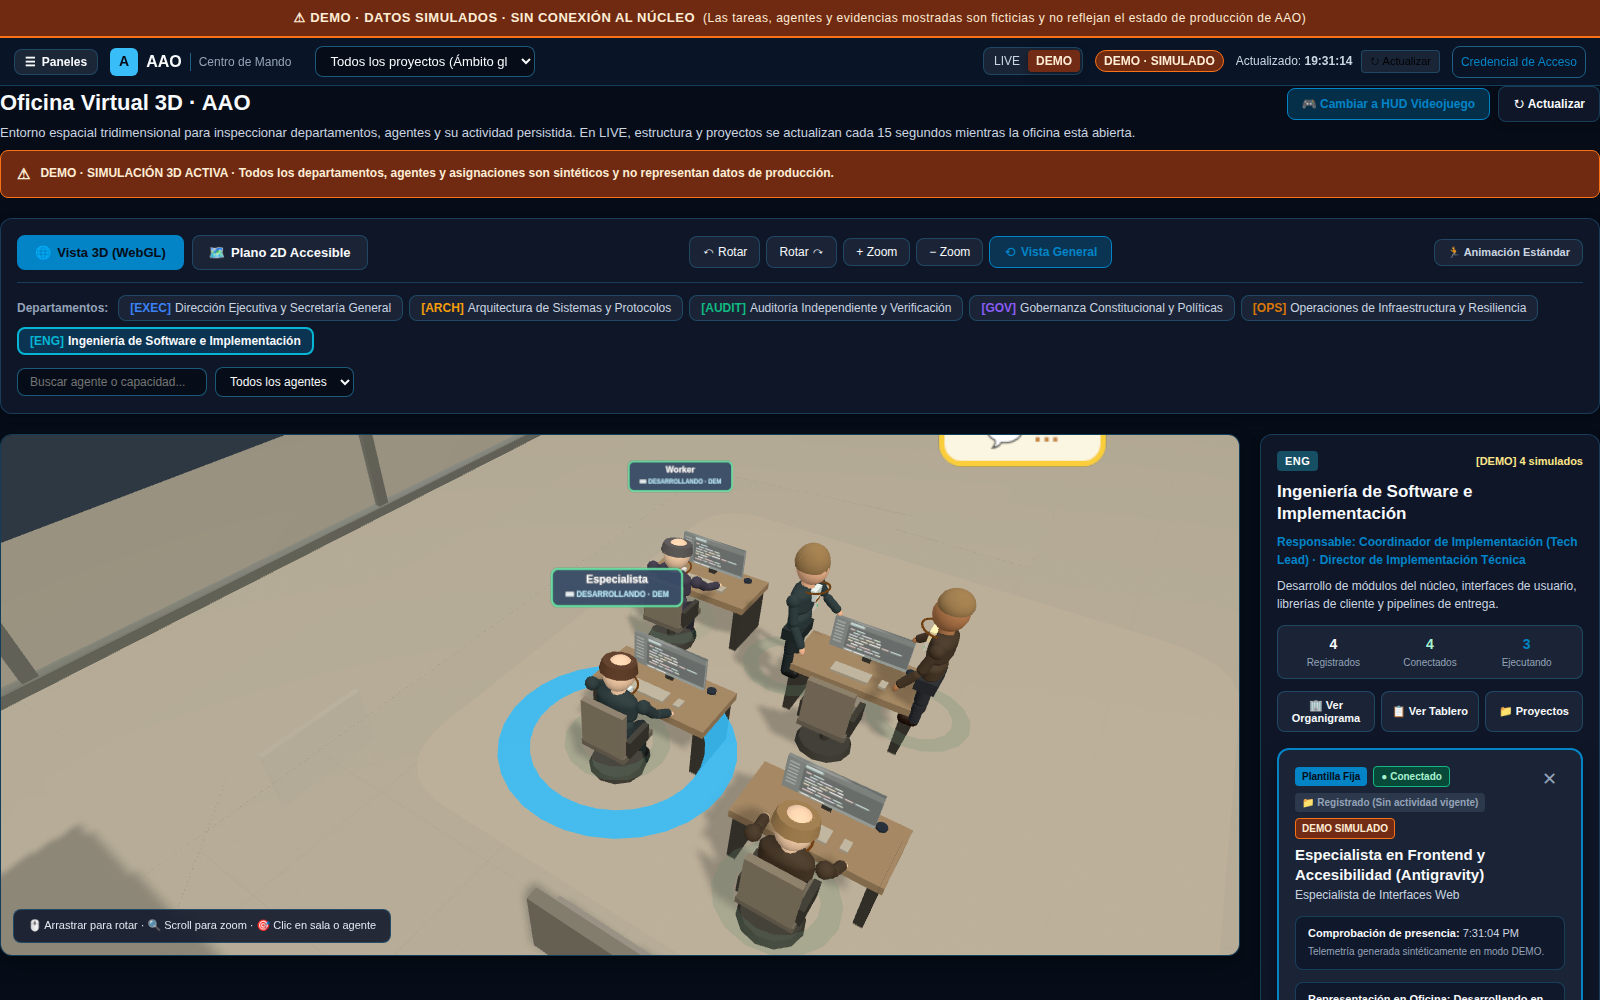
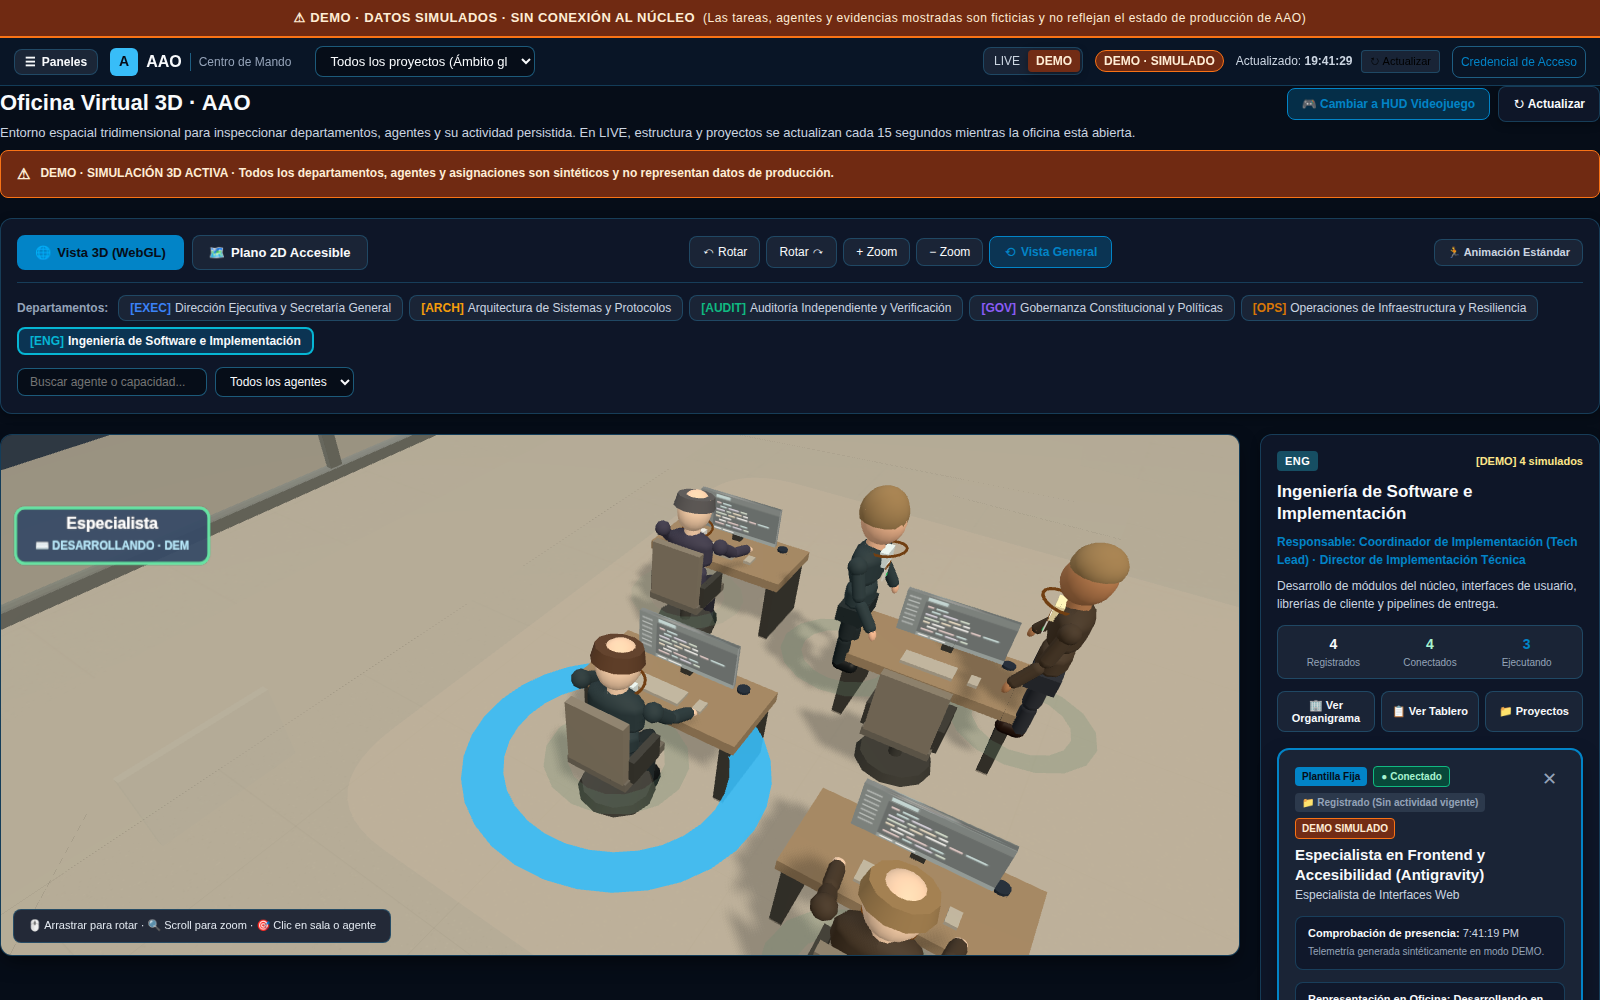
fix(frontend): improve agent close-up framing and label clearance

diff --git a/frontend/app/src/features/office/engine/officeLifeEngine.ts b/frontend/app/src/features/office/engine/officeLifeEngine.ts
@@ -966,6 +966,12 @@ export function computeAdaptiveLabelStates(params: {
   });
 
   const acceptedBoxes: Array<{ screenX: number; screenY: number }> = [];
+  // A label must avoid not only other labels but also other agents' heads.
+  // Otherwise a collision-free label cluster can still hide a face in the 3D view.
+  const projectedHeads = candidates.map((candidate) => ({
+    agentId: candidate.agent.id,
+    ...projectToScreenPlane(candidate.pos.x, candidate.pos.z, 1.62),
+  }));
   // A label sprite is roughly 1.6 world units wide. Give each accepted label
   // at least its own footprint, then shift colliding labels sideways in the
   // camera plane before lifting them above heads and monitors.
@@ -1018,12 +1024,16 @@ export function computeAdaptiveLabelStates(params: {
     const collides = (sx: number, sy: number) =>
       acceptedBoxes.some(
         (box) => Math.abs(box.screenX - sx) < minSepX && Math.abs(box.screenY - sy) < minSepY
+      ) || projectedHeads.some((head) =>
+        head.agentId !== cand.agent.id &&
+        Math.abs(head.screenX - sx) < minSepX / 2 &&
+        Math.abs(head.screenY - sy) < minSepY
       );
 
     let hasOverlap = collides(proj.screenX, proj.screenY);
     if (hasOverlap) {
-      const lateralOffsets = [0, -1.9, 1.9, -3.8, 3.8, -5.7, 5.7];
-      const verticalOffsets = [1.24, 1.62, 1.98];
+      const lateralOffsets = [0, -1.2, 1.2, -2, 2];
+      const verticalOffsets = [1.24, 1.62, 1.98, 2.35, 2.65, 2.95];
       for (const yOffset of verticalOffsets) {
         let placed = false;
         for (const screenOffset of lateralOffsets) {

diff --git a/frontend/app/src/test/office-game-hud.test.tsx b/frontend/app/src/test/office-game-hud.test.tsx
@@ -909,8 +909,13 @@ describe('Video Game Spatial HUD & 3D Office Prioritization', () => {
     expect(visibleStates.length).toBeLessThanOrEqual(1);
     expect(suppressedStates.length).toBeLessThanOrEqual(7);
     expect(visibleStates.some((state) => state.agentId === 'aao-selfdev-worker-0')).toBe(true);
-    expect(visibleStates[0].offsetX).toBe(0);
-    expect(visibleStates[0].offsetZ).toBe(0);
+    // The selected label retains priority but moves away from the overlapping
+    // heads instead of covering a face in the close view.
+    expect(
+      Math.abs(visibleStates[0].offsetX) +
+        Math.abs(visibleStates[0].offsetZ) +
+        Math.max(0, visibleStates[0].yOffset - 1.24),
+    ).toBeGreaterThan(0);
     expect(visibleStates.every((state) => Number.isFinite(state.offsetX) && Number.isFinite(state.offsetZ))).toBe(true);
   });
 

diff --git a/frontend/app/e2e/screenshots.spec.ts b/frontend/app/e2e/screenshots.spec.ts
@@ -76,7 +76,14 @@ test('Capture real screenshots of F4.7 and F4.8 Office', async ({ page }) => {
     // occlusion can be reviewed at the scale where they are easiest to spot.
     for (let step = 0; step < 16; step += 1) {
       if (!(await zoomIn.isVisible()) || !(await zoomIn.isEnabled())) break;
-      await zoomIn.click({ force: true, timeout: 2_000 });
+      try {
+        await zoomIn.click({ force: true, timeout: 2_000, noWaitAfter: true });
+      } catch {
+        // Browser screenshot evidence is more useful than failing because React
+        // is still settling after an earlier camera event; retain the closest
+        // successfully reached framing and capture it below.
+        break;
+      }
     }
     await page.waitForTimeout(900);
     await page.screenshot({

diff --git a/frontend/app/src/test/office-camera-gestures.test.ts b/frontend/app/src/test/office-camera-gestures.test.ts
@@ -116,11 +116,11 @@ describe('Immersive Gestural Camera Controls & Navigation (PR B)', () => {
     scene.simulateGesturePinch(0.7);
     expect(scene.getDesiredDistance()).toBeLessThan(initialDistance);
 
-    // Extreme zoom in: must not breach the agent-inspection minDistance (4.5)
+    // Extreme zoom in: retain a usable close-up of an agent and workstation.
     for (let i = 0; i < 15; i++) {
       scene.simulateGesturePinch(0.5);
     }
-    expect(scene.getDesiredDistance()).toBeGreaterThanOrEqual(4.5);
+    expect(scene.getDesiredDistance()).toBeGreaterThanOrEqual(3.2);
 
     // Extreme zoom out: the overview fit may require more than 38 units for
     // this viewport; once clamped, further pinches must not change the bound.

diff --git a/frontend/app/src/features/office/engine/ThreeOfficeScene.ts b/frontend/app/src/features/office/engine/ThreeOfficeScene.ts
@@ -294,7 +294,9 @@ export class ThreeOfficeScene {
   private desiredDistance = 24; // smart zoom destination
   // Permit an actual agent/workstation close-up after the camera has focused
   // a selection. Eight meters left people too small for posture inspection.
-  private minDistance = 4.5;
+  // Permit a genuine agent-workstation close view (desk + seated posture),
+  // rather than clamping zoom while the entire neighborhood is still framed.
+  private minDistance = 3.2;
   private maxDistance = 38;
   private cameraTarget = new THREE.Vector3(0, 0, 0);
   private desiredTarget = new THREE.Vector3(0, 0, 0);

diff --git a/frontend/app/src/test/office.test.tsx b/frontend/app/src/test/office.test.tsx
@@ -410,7 +410,7 @@ describe('ThreeOfficeScene Engine Direct Regression Tests (Defects 1 & 2)', () =
 
     // Zoom clamping boundaries: close enough to inspect agents and the dynamic fit limit
     scene.zoomCamera(0.1); // extreme zoom-in
-    expect(scene.getDesiredDistance()).toBeGreaterThanOrEqual(4.5);
+    expect(scene.getDesiredDistance()).toBeGreaterThanOrEqual(3.2);
 
     for (let index = 0; index < 4; index += 1) scene.zoomCamera(10.0);
     const maxFitDistance = scene.getDesiredDistance();
